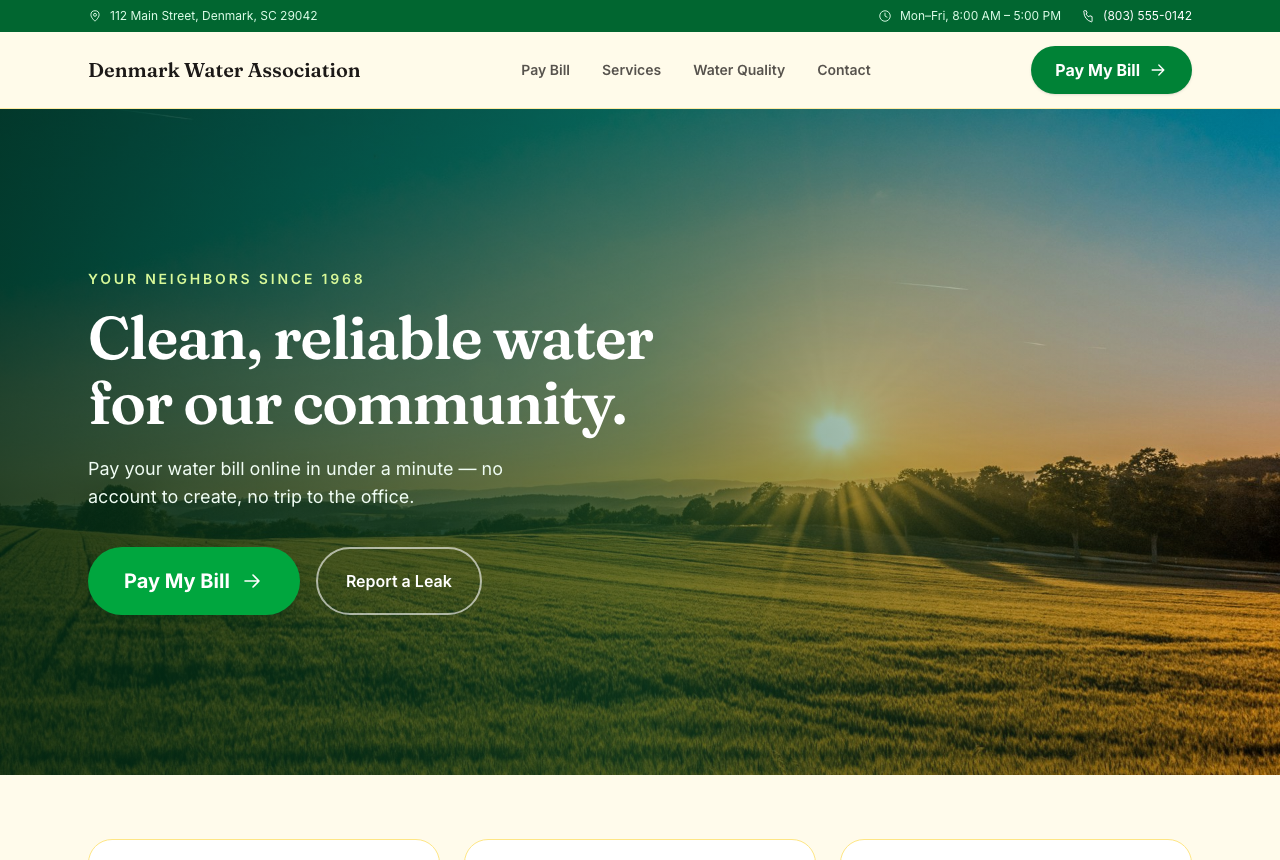
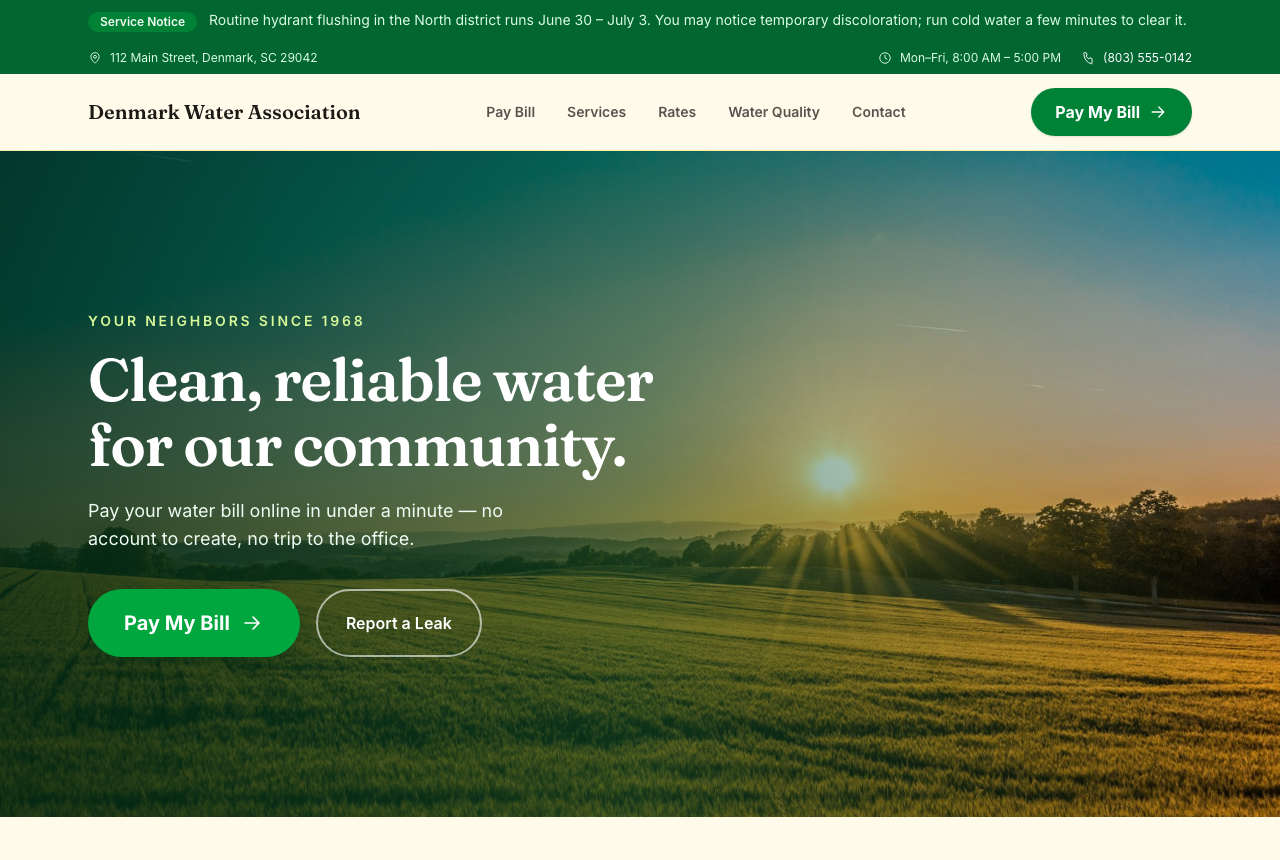
Merge design + price tiers; each site is a package with why-it-costs description; refresh screenshots

diff --git a/app/page.tsx b/app/page.tsx
@@ -4,42 +4,17 @@ import { useState } from "react";
 
 const VOTE_EMAIL = "jamesburge.mcm@gmail.com";
 
-const concepts = [
+const tiers = [
   {
     key: "civic",
-    name: "Civic Blue",
-    tag: "Trustworthy & municipal",
-    desc: "The classic, dependable utility look — clean blue, big readable type, the safe choice most residents expect.",
+    design: "Civic Blue",
+    tier: "Starter",
+    price: "$1,600",
+    accent: "#2563eb",
     url: "https://denmark-water-civic-blue.vercel.app",
     shot: "/shots/civic-blue.png",
-    accent: "#2563eb",
-  },
-  {
-    key: "modern",
-    name: "Modern",
-    tag: "Clean & editorial",
-    desc: "Bright, premium, magazine-style with a split layout. Stands apart from every other water-utility site.",
-    url: "https://denmark-water-modern-slate.vercel.app",
-    shot: "/shots/modern-slate.png",
-    accent: "#0e7490",
-  },
-  {
-    key: "community",
-    name: "Community Spring",
-    tag: "Warm & neighborly",
-    desc: "Friendly and approachable — soft greens, rounded shapes. Reads like a neighbor, not a bureaucracy.",
-    url: "https://denmark-water-community-spring.vercel.app",
-    shot: "/shots/community-spring.png",
-    accent: "#15803d",
-  },
-];
-
-const packages = [
-  {
-    key: "starter",
-    name: "Starter",
-    price: "$1,600",
-    blurb: "The essentials to get online and take payments.",
+    look: "Trustworthy & municipal — the classic, dependable utility look.",
+    why: "The essentials, done clean. Everything a resident needs to pay online and nothing they don't — a sharp, simple site that gets the job done.",
     features: [
       "Responsive website — home, services, water quality, contact",
       "Online bill-pay portal",
@@ -48,85 +23,101 @@ const packages = [
     ],
   },
   {
-    key: "standard",
-    name: "Standard",
+    key: "community",
+    design: "Community Spring",
+    tier: "Standard",
     price: "$2,200",
-    blurb: "Everything in Starter, plus live payments and self-service.",
+    accent: "#15803d",
+    url: "https://denmark-water-community-spring.vercel.app",
+    shot: "/shots/community-spring.png",
+    look: "Warm & neighborly — soft, friendly, reads like a neighbor.",
+    why: "A fuller site with self-service built in. Adds a rates page, a service-notice banner you control, autopay, and live card payments wired to your billing — more site, more value.",
     popular: true,
     features: [
+      "Everything in Starter, plus —",
+      "Rates page + service-notice banner",
       "Autopay enrollment for members",
-      "Live payment processor — wired to your billing",
-      "Service-notice manager (post outages yourself)",
-      "Go-live setup + staff training",
+      "Live payment processor + staff training",
     ],
   },
   {
-    key: "premium",
-    name: "Premium",
+    key: "modern",
+    design: "Modern",
+    tier: "Premium",
     price: "$3,000",
-    blurb: "The full system, fully integrated.",
+    accent: "#0e7490",
+    url: "https://denmark-water-modern-slate.vercel.app",
+    shot: "/shots/modern-slate.png",
+    look: "Clean & editorial — bright, premium, magazine-style.",
+    why: "The complete system, fully built out. A documents center, FAQ, two-way sync with your billing software, automatic reminders, and local SEO — the most site, and it looks it.",
     features: [
-      "Two-way sync with your billing software (live balances)",
-      "Text & email bill reminders",
-      "Document center — CCR reports, board minutes, agendas",
-      "Get-found local SEO setup + priority support",
+      "Everything in Standard, plus —",
+      "Documents center (CCR, minutes) + FAQ",
+      "Two-way billing sync — live balances",
+      "Text & email reminders + local SEO",
     ],
   },
 ];
 
-export default function ConceptChooser() {
-  const [design, setDesign] = useState<string | null>(null);
-  const [pkg, setPkg] = useState<string | null>(null);
+export default function TierChooser() {
+  const [pick, setPick] = useState<string | null>(null);
+  const chosen = tiers.find((t) => t.key === pick);
 
-  const chosenDesign = concepts.find((c) => c.key === design);
-  const chosenPkg = packages.find((p) => p.key === pkg);
-
-  const lines = [
-    chosenDesign ? `Design: ${chosenDesign.name} (${chosenDesign.url})` : "Design: (still deciding)",
-    chosenPkg ? `Package: ${chosenPkg.name} — ${chosenPkg.price} build + $60/mo` : "Package: (still deciding)",
-  ].join("\n");
-
-  const mailto = `mailto:${VOTE_EMAIL}?subject=${encodeURIComponent(
-    "Denmark Water — our pick"
-  )}&body=${encodeURIComponent(`Hi James,\n\nHere's what the board picked:\n\n${lines}\n\nLet's move forward.\n\nThanks,\nDenmark Water Association`)}`;
+  const mailto = chosen
+    ? `mailto:${VOTE_EMAIL}?subject=${encodeURIComponent(
+        `Denmark Water — we pick the ${chosen.tier} (${chosen.design})`
+      )}&body=${encodeURIComponent(
+        `Hi James,\n\nThe board picked the ${chosen.tier} package — the "${chosen.design}" site (${chosen.price} build + $60/mo).\n${chosen.url}\n\nLet's move forward.\n\nThanks,\nDenmark Water Association`
+      )}`
+    : "";
 
   return (
     <div className="min-h-screen bg-slate-100 text-slate-800">
       <div className="mx-auto max-w-5xl px-5 py-12 md:py-16">
-        {/* Header */}
         <p className="text-sm font-semibold uppercase tracking-[0.2em] text-slate-500">For review · Denmark Water Association</p>
         <h1 className="mt-2 font-serif text-4xl font-semibold tracking-tight text-slate-900 md:text-5xl">
-          Your new website — pick a look &amp; a package
+          Three websites, three packages
         </h1>
         <p className="mt-4 max-w-2xl text-lg text-slate-600">
-          Three complete, working design directions and three packages. Open each design live, click around —
-          try <strong>Pay My Bill</strong> — then pick the look and the package you want. Hit send and we&apos;re off.
+          Each design is a complete, working site you can open and click through — try <strong>Pay My Bill</strong>.
+          The more you choose, the more we build. Pick the one that fits, hit send, and we&apos;re off. All packages run on <strong>$60/mo</strong> hosting &amp; care.
         </p>
 
-        {/* Step 1: design */}
-        <h2 className="mt-12 font-serif text-2xl font-semibold text-slate-900">1 · Pick your look</h2>
-        <div className="mt-6 space-y-8">
-          {concepts.map((c, i) => {
-            const isPicked = design === c.key;
+        <div className="mt-10 space-y-8">
+          {tiers.map((t) => {
+            const isPicked = pick === t.key;
             return (
-              <div key={c.key} className={`overflow-hidden rounded-2xl border-2 bg-white shadow-sm transition ${isPicked ? "border-slate-900 shadow-lg" : "border-transparent"}`}>
+              <div key={t.key} className={`relative overflow-hidden rounded-2xl border-2 bg-white shadow-sm transition ${isPicked ? "border-slate-900 shadow-lg" : "border-transparent"}`}>
+                {t.popular && (
+                  <span className="absolute right-5 top-5 z-10 rounded-full bg-slate-900 px-3 py-1 text-xs font-bold uppercase tracking-wide text-white">Most popular</span>
+                )}
                 <div className="grid md:grid-cols-2">
-                  <a href={c.url} target="_blank" rel="noopener noreferrer" className="group relative block">
+                  <a href={t.url} target="_blank" rel="noopener noreferrer" className="group relative block">
                     {/* eslint-disable-next-line @next/next/no-img-element */}
-                    <img src={c.shot} alt={`${c.name} preview`} className="h-full w-full object-cover object-top md:max-h-80" />
+                    <img src={t.shot} alt={`${t.design} preview`} className="h-full w-full object-cover object-top md:max-h-96" />
                     <span className="absolute inset-0 flex items-center justify-center bg-slate-900/0 text-lg font-bold text-white opacity-0 transition group-hover:bg-slate-900/40 group-hover:opacity-100">Open live site →</span>
                   </a>
                   <div className="flex flex-col p-7 md:p-8">
-                    <div className="flex items-center gap-3">
-                      <span className="text-xs font-bold uppercase tracking-wide text-slate-400">Option {i + 1}</span>
-                      <span className="h-2.5 w-2.5 rounded-full" style={{ background: c.accent }} />
+                    <div className="flex items-baseline justify-between gap-3">
+                      <div>
+                        <span className="text-xs font-bold uppercase tracking-wide" style={{ color: t.accent }}>{t.tier}</span>
+                        <h2 className="font-serif text-3xl font-semibold text-slate-900">{t.design}</h2>
+                      </div>
+                      <div className="text-right">
+                        <div className="font-serif text-3xl font-semibold text-slate-900">{t.price}</div>
+                        <div className="text-xs text-slate-500">+ $60/mo</div>
+                      </div>
                     </div>
-                    <h3 className="mt-2 font-serif text-3xl font-semibold text-slate-900">{c.name}</h3>
-                    <p className="text-sm font-semibold" style={{ color: c.accent }}>{c.tag}</p>
-                    <p className="mt-3 text-slate-600">{c.desc}</p>
+                    <p className="mt-1 text-sm font-medium text-slate-500">{t.look}</p>
+                    <p className="mt-3 text-sm text-slate-600">{t.why}</p>
+                    <ul className="mt-4 space-y-1.5 text-sm text-slate-600">
+                      {t.features.map((f) => (
+                        <li key={f} className="flex gap-2"><span className="mt-0.5" style={{ color: t.accent }}>✓</span>{f}</li>
+                      ))}
+                    </ul>
                     <div className="mt-auto flex flex-wrap gap-3 pt-6">
-                      <a href={c.url} target="_blank" rel="noopener noreferrer" className="inline-flex items-center gap-2 rounded-lg bg-slate-900 px-5 py-3 text-sm font-bold text-white transition hover:bg-slate-700">View live site →</a>
-                      <button onClick={() => setDesign(c.key)} className={`inline-flex items-center gap-2 rounded-lg border-2 px-5 py-3 text-sm font-bold transition ${isPicked ? "border-slate-900 bg-slate-900 text-white" : "border-slate-300 text-slate-700 hover:border-slate-900"}`}>{isPicked ? "✓ This is our look" : "Pick this look"}</button>
+                      <a href={t.url} target="_blank" rel="noopener noreferrer" className="inline-flex items-center gap-2 rounded-lg bg-slate-900 px-5 py-3 text-sm font-bold text-white transition hover:bg-slate-700">View live site →</a>
+                      <button onClick={() => setPick(t.key)} className={`inline-flex items-center gap-2 rounded-lg border-2 px-5 py-3 text-sm font-bold transition ${isPicked ? "border-slate-900 bg-slate-900 text-white" : "border-slate-300 text-slate-700 hover:border-slate-900"}`}>{isPicked ? "✓ This is our pick" : "Pick this one"}</button>
                     </div>
                   </div>
                 </div>
@@ -135,53 +126,18 @@ export default function ConceptChooser() {
           })}
         </div>
 
-        {/* Step 2: package */}
-        <h2 className="mt-14 font-serif text-2xl font-semibold text-slate-900">2 · Pick your package</h2>
-        <p className="mt-2 text-slate-600">Each package includes everything in the one before it. All run on <strong>$60/mo</strong> hosting &amp; care.</p>
-        <div className="mt-6 grid gap-6 md:grid-cols-3">
-          {packages.map((p) => {
-            const isPicked = pkg === p.key;
-            return (
-              <button
-                key={p.key}
-                onClick={() => setPkg(p.key)}
-                className={`relative flex flex-col rounded-2xl border-2 bg-white p-7 text-left shadow-sm transition ${isPicked ? "border-slate-900 shadow-lg" : "border-transparent hover:border-slate-300"}`}
-              >
-                {p.popular && (
-                  <span className="absolute -top-3 left-7 rounded-full bg-slate-900 px-3 py-1 text-xs font-bold uppercase tracking-wide text-white">Most popular</span>
-                )}
-                <span className="font-serif text-xl font-semibold text-slate-900">{p.name}</span>
-                <span className="mt-2 font-serif text-4xl font-semibold text-slate-900">{p.price}</span>
-                <span className="text-sm text-slate-500">build · + $60/mo</span>
-                <span className="mt-3 text-sm text-slate-600">{p.blurb}</span>
-                <ul className="mt-4 space-y-2 text-sm text-slate-600">
-                  {p.features.map((f) => (
-                    <li key={f} className="flex gap-2"><span className="mt-0.5 text-green-600">✓</span>{f}</li>
-                  ))}
-                </ul>
-                <span className={`mt-6 inline-flex items-center justify-center gap-2 rounded-lg border-2 px-4 py-2.5 text-sm font-bold transition ${isPicked ? "border-slate-900 bg-slate-900 text-white" : "border-slate-300 text-slate-700"}`}>
-                  {isPicked ? "✓ Our package" : "Choose " + p.name}
-                </span>
-              </button>
-            );
-          })}
-        </div>
-
-        {/* Send */}
-        <div className="mt-12 rounded-2xl bg-slate-900 p-8 text-white md:p-10">
+        <div className="mt-10 rounded-2xl bg-slate-900 p-8 text-white md:p-10">
           <div className="flex flex-col items-start justify-between gap-6 md:flex-row md:items-center">
             <div>
               <p className="text-sm text-slate-400">Your pick</p>
               <p className="font-serif text-2xl font-semibold">
-                {chosenDesign ? chosenDesign.name : "Choose a look"}
-                <span className="text-slate-500"> · </span>
-                {chosenPkg ? `${chosenPkg.name} (${chosenPkg.price})` : "choose a package"}
+                {chosen ? `${chosen.tier} — ${chosen.design} · ${chosen.price}` : "Pick a package above"}
               </p>
-              <p className="mt-1 text-slate-300">Pick a look and a package above, then send it over.</p>
+              <p className="mt-1 text-slate-300">Choose the one you want, then send it over and we&apos;ll get started.</p>
             </div>
             <a
               href={mailto}
-              className={`inline-flex items-center gap-2 rounded-lg px-7 py-4 text-lg font-bold transition ${design || pkg ? "bg-white text-slate-900 hover:bg-slate-100" : "pointer-events-none bg-slate-700 text-slate-400"}`}
+              className={`inline-flex items-center gap-2 rounded-lg px-7 py-4 text-lg font-bold transition ${chosen ? "bg-white text-slate-900 hover:bg-slate-100" : "pointer-events-none bg-slate-700 text-slate-400"}`}
             >
               Send our pick →
             </a>
